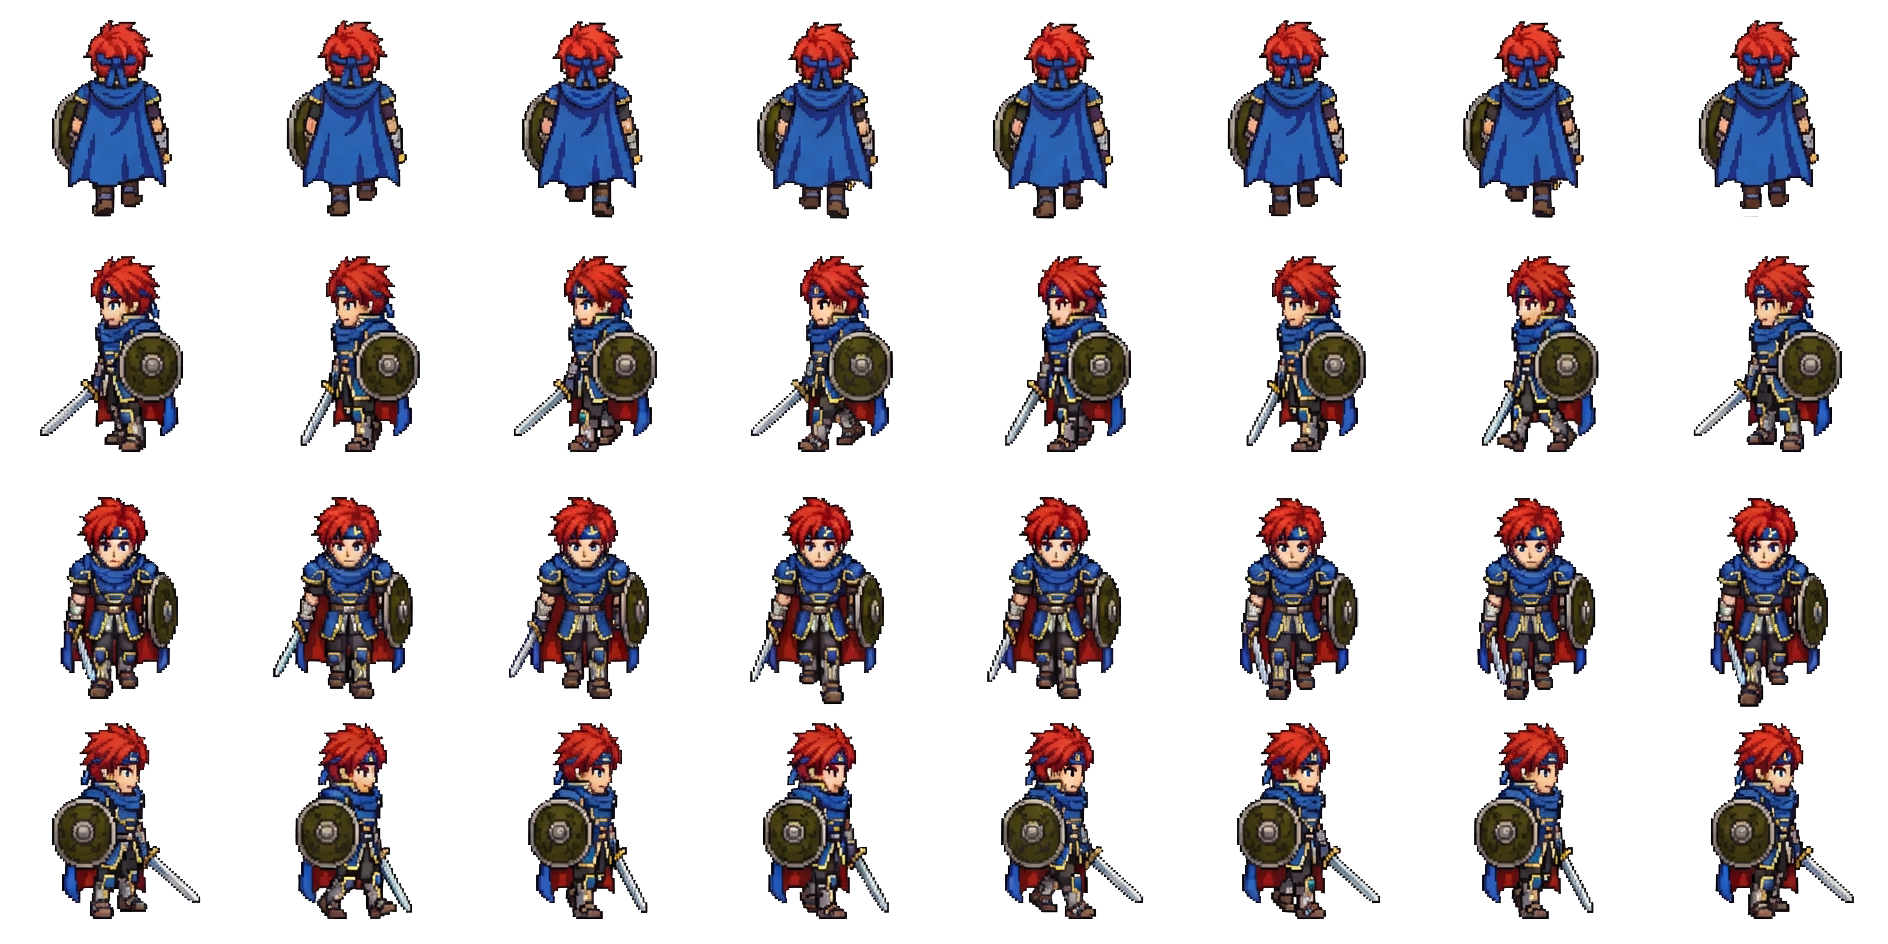
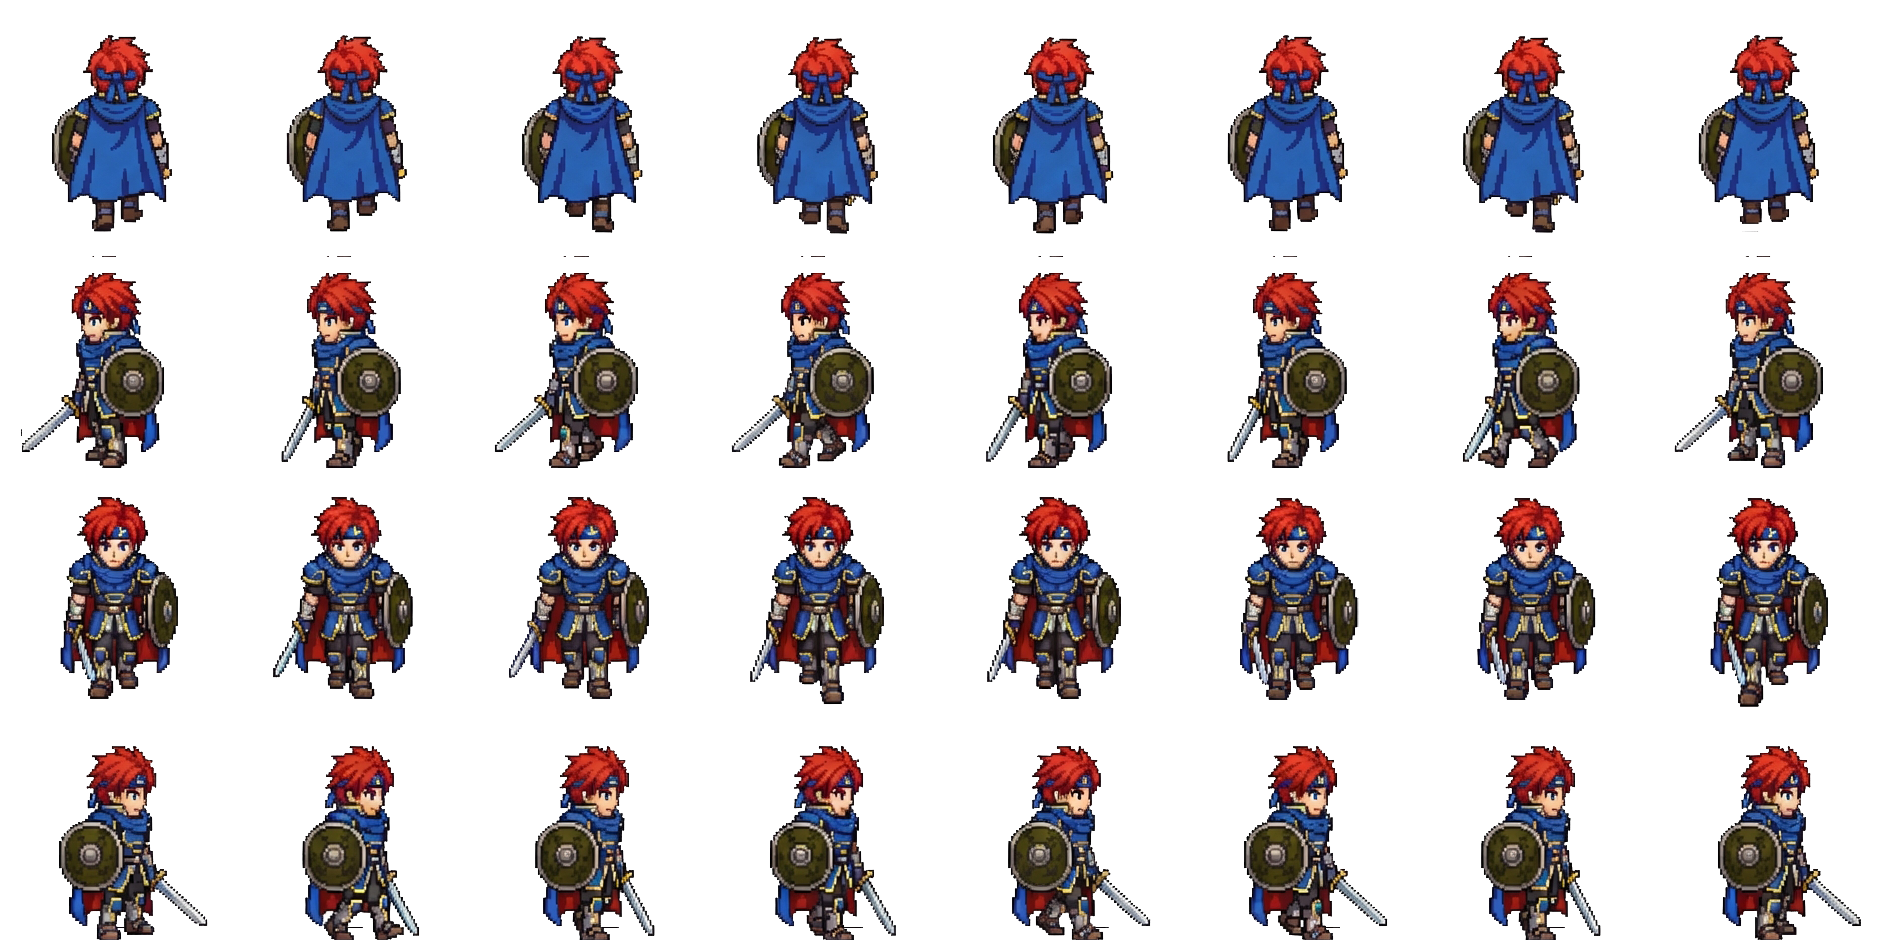
修改为1:2的人物比例，分离了站位面积与显示面积，2.5d化

diff --git a/src/drama/lord-room.ts b/src/drama/lord-room.ts
@@ -1,0 +1,162 @@
+import * as InitiativeController from "@/core/system/InitiativeSystem";
+import { CharacterOutCombatController } from "@/core/controller/CharacterOutCombatController";
+import { golbalSetting } from "@/core/golbalSetting";
+import { Drama } from "./drama";
+import * as InitSystem from "@/core/system/InitiativeSystem";
+import { Item, ItemRarity, ItemType, HolyWater } from "@/core/item";
+import { UnitSystem } from "@/core/system/UnitSystem";
+import { CharacterController } from "@/core/controller/CharacterController";
+class LordRoom extends Drama {
+  mapName: string = "lord-room";
+  mapType: string = "png";
+  constructor() {
+    super("lord-room", "这是一个测试剧情");
+  }
+  loadInit() {
+    const { CGstart, unitSpeak, speak, unitChoose, CGEnd, addInteraction } =
+      this;
+    const cricleTalkUse = this.getVariable("cricleTalkUse");
+    if (cricleTalkUse) {
+      addInteraction("npc牧师", this.cricleTalk);
+    }
+  }
+  play(): void {
+    const startFlag = this.getVariable("startFlag");
+    if (!startFlag) {
+      this.setVariable("startFlag", true);
+      this.startEvent();
+    }
+  }
+  public battleEndHandle(): void {
+    const { CGstart, unitSpeak, speak, unitChoose, CGEnd } = this;
+  }
+  combat2EndCG = async () => {};
+  combat1EndCG = async () => {};
+
+  cricleTalk = async () => {
+    const { CGstart, unitSpeak, speak, unitChoose, CGEnd } = this;
+    if (InitSystem.isInBattle()) {
+      return;
+    }
+    CGstart();
+    const ch1 = await unitChoose(
+      "npc牧师",
+      [
+        { text: "你发现这种情况多久了？", value: "option1" },
+        { text: "它们有什么弱点吗？", value: "option2" },
+        { text: "这座神殿原本是哪个神明的？", value: "option3" },
+        { text: "你能提供什么帮助吗？", value: "option4" },
+      ],
+      "还有什么事吗"
+    );
+
+    if (ch1 == "option1")
+      await unitSpeak(
+        "npc牧师",
+        "大约一周前，我开始注意到这些异常现象。起初只是有鬼魂在废弃神殿中呢喃，但现在已经变得越来越严重了。"
+      );
+    if (ch1 == "option2") {
+      await unitSpeak(
+        "npc牧师",
+        "它们畏惧阳光，所以一直在神殿里没有出来。圣水对他们或许也有用……"
+      );
+
+      const hasHolyWater = this.getVariable("hasHolyWater");
+      if (!hasHolyWater) {
+        const item = new HolyWater();
+        const unit = CharacterController.selectedCharacter;
+
+        unit?.addItem(item);
+
+        await speak("你获得了道具：圣水");
+        this.setVariable("hasHolyWater", true);
+      }
+    }
+
+    if (ch1 == "option3")
+      await unitSpeak(
+        "npc牧师",
+        "这座神殿原本时祭拜古拉姆的……但是你也知道，古拉姆已经不在了，各种意义上，因此神殿也废弃了。"
+      );
+    if (ch1 == "option4")
+      await unitSpeak(
+        "npc牧师",
+        "我能做的并不多，但是我会尽我所能使用神术法术来攻击它们。但是别指望太多，我毕竟不是战斗人员。"
+      );
+    CGEnd();
+  };
+
+  private async startEvent(): Promise<void> {
+    const {
+      CGstart,
+      unitSpeak,
+      speak,
+      unitChoose,
+      CGEnd,
+      addInteraction,
+      unHiddenUnit,
+    } = this;
+    if (!this.map) {
+      return;
+    }
+    CGstart();
+
+    this.setVariable("inCombat1", true);
+    InitiativeController.setMap(this.map);
+    const units = UnitSystem.getInstance().getUnitBySelectionGroup("battle1");
+    const players = UnitSystem.getInstance().getUnitBySelectionGroup("player");
+    players.forEach((player) => {
+      units.push(player);
+    });
+    const initCombatPromise =
+      InitiativeController.addUnitsToInitiativeSheet(units);
+
+    // initCombatPromise.then(async () => {
+    //   await InitiativeController.startBattle();
+    //   InitiativeController.startCombatTurn();
+    // });
+
+    CGEnd();
+    CharacterOutCombatController.isUse = true;
+  }
+
+  private async door1Event(): Promise<void> {
+    const { CGstart, speak, unitSpeak, CGEnd } = this;
+
+    const door1 = golbalSetting.map?.doors?.find(
+      (door: { id: number }) => door.id === 86
+    );
+    if (!door1) return;
+    if (door1?.isOpen === false) {
+      return;
+    }
+
+    CGstart();
+    this.setVariable("door1", true);
+    await speak(
+      "你走近废弃的房屋,发现门口有一扇破旧的门。你试图推开门,但它似乎被什么东西卡住了。你决定用力推开它。"
+    );
+    await unitSpeak("skeleton", "骷髅:咯吱吱……咯吱吱");
+    CGEnd();
+    //开始战斗
+    if (!this.map) {
+      return;
+    }
+    this.setVariable("inCombat1", true);
+    InitiativeController.setMap(this.map);
+    const units = UnitSystem.getInstance().getUnitBySelectionGroup("battle1");
+    const players = UnitSystem.getInstance().getUnitBySelectionGroup("player");
+    players.forEach((player) => {
+      units.push(player);
+    });
+    const initCombatPromise =
+      InitiativeController.addUnitsToInitiativeSheet(units);
+
+    initCombatPromise.then(async () => {
+      await InitiativeController.startBattle();
+      InitiativeController.startCombatTurn();
+    });
+  }
+}
+
+export const lordRoom = new LordRoom();

diff --git a/src/core/anim/LookOnAnim.ts b/src/core/anim/LookOnAnim.ts
@@ -5,10 +5,35 @@ export const lookOn=(x:number,y:number)=>{
     const rootContainer = golbalSetting.rootContainer;
     const appSetting = envSetting.appSetting;
     const centerX=Math.floor((appSetting.width / 2 - x)/envSetting.tileSize)*envSetting.tileSize;
-    const centerY=Math.floor((appSetting.height / 2 - y)/envSetting.tileSize)*envSetting.tileSize;
-    if (rootContainer&&rootContainer._position) {
+    const centerY=Math.floor(((appSetting.height) / 2 - y)/envSetting.tileSize)*envSetting.tileSize;
+    
+    if (rootContainer&&rootContainer._position&&golbalSetting.map) {
+        // if (centerX < 0) {
+        //     rootContainer.x = centerX;
+        // }
+        console.log('golbalSetting.map?.width*envSetting.tileSize',centerX,golbalSetting.map?.width*envSetting.tileSize-centerX);
+        if (golbalSetting.map?.width*envSetting.tileSize<appSetting.width) {
+            rootContainer.x =  (appSetting.width-golbalSetting.map?.width*envSetting.tileSize)/2;
+        }
+        else if (golbalSetting.map?.width*envSetting.tileSize-centerX<appSetting.width) {
+            rootContainer.x =  appSetting.width-golbalSetting.map?.width*envSetting.tileSize;
+        }else if (centerX >0 ) {
+            rootContainer.x = 0;
+        }else {
+            rootContainer.x = centerX;
+        }
+              console.log('golbalSetting.map?.height*envSetting.tileSize',centerY,golbalSetting.map?.height*envSetting.tileSize-centerY,appSetting.height);
+        if (golbalSetting.map?.height*envSetting.tileSize<appSetting.height-envSetting.pannelHeight) {
+            rootContainer.y =  (appSetting.height-golbalSetting.map?.height*envSetting.tileSize)/2;
+        }
+        else if (golbalSetting.map?.height*envSetting.tileSize+centerY<appSetting.height) {
+            rootContainer.y =  appSetting.height-golbalSetting.map?.height*envSetting.tileSize;
+        }else if (centerY >0 ) {
+            rootContainer.y = 0;
+        }else {
+            rootContainer.y = centerY;
+        }
 
-        rootContainer.x =centerX<0? centerX : 0;
-        rootContainer.y = centerY<0? centerY : 0;
+       
     }
 }

diff --git a/src/core/anim/UnitAnimSprite.ts b/src/core/anim/UnitAnimSprite.ts
@@ -1,7 +1,7 @@
 import { Container } from "pixi.js";
 import * as PIXI from "pixi.js";
 import type { Unit } from "../units/Unit";
-import { tileSize, zIndexSetting } from "../envSetting";
+import { spriteTile, tileSize, zIndexSetting } from "../envSetting";
 import type { BuffInterface } from "../buff/BuffInterface";
 import { getStatusEffectsIconUrl } from "@/utils/utils";
 const lineIconLimit = 4;
@@ -59,6 +59,8 @@ export class UnitAnimSpirite extends Container {
     this.onRender = () => {
       this.update(this.callback);
     };
+    this.eventMode = "none";
+
   }
   public get ownerUnit(): Unit | undefined {
     return this.owner;
@@ -134,6 +136,8 @@ export class UnitAnimSpirite extends Container {
           0 -
           (this.anims[this._state].height - (this.visisualSize.height ?? 0)) /
             2;
+            this.anims[this._state].zIndex = this.y;
+          this.zIndex=this.y;
         if (this.owner?.direction != null) {
           this.direction = this.owner.direction;
           this.anims[this._state].textures =
@@ -204,7 +208,7 @@ export class UnitAnimSpirite extends Container {
     const animSprite = new PIXI.AnimatedSprite(
       spritesheet.animations[animKeys[0]]
     );
-    animSprite.scale = this.visisualSize.width / this.frameSize.width;
+    animSprite.scale = this.visisualSize.width / this.frameSize.width * spriteTile;
     console.log("动画精灵的视觉大小:", this.visisualSize);
     animSprite.animationSpeed = 0.1666;
     animSprite.textures = spritesheet.animations[animKeys[0]];
@@ -212,7 +216,7 @@ export class UnitAnimSpirite extends Container {
     // play the animation on a loop
     // animSprite.play();
     animSprite.label = name;
-    animSprite.anchor.set(0, 0); // 设置锚点为左上角，避免偏移
+    animSprite.anchor.set(0, 0.3); // 设置锚点为左上角，避免偏移
     this.addAnimation(name, animSprite);
   }
   public async addIcon(buff: BuffInterface) {

diff --git a/src/core/system/DramaSystem.ts b/src/core/system/DramaSystem.ts
@@ -10,6 +10,7 @@ import { MapCanvasService } from "../service/2dcanvas/MapCanvasService";
 import { FogSystem } from "./NewFogSystem";
 import { CharacterOutCombatController } from "../controller/CharacterOutCombatController";
 import { CharacterController } from "../controller/CharacterController";
+import { lordRoom } from "@/drama/lord-room";
 interface DialogOption {
   text: string;
   value: any;
@@ -307,4 +308,6 @@ const initDramaMap = () => {
   const dramaSystem = DramaSystem.getInstance();
   dramaSystem.registerDrama("d1", d1);
   dramaSystem.registerDrama("city_1", city_1);
+  dramaSystem.registerDrama("lord-room", lordRoom);
+
 };

diff --git a/src/core/service/2dcanvas/MapCanvasService.ts b/src/core/service/2dcanvas/MapCanvasService.ts
@@ -279,7 +279,7 @@ export class MapCanvasService {
       return;
     }
     rlayers.spriteLayer.attach(animSpriteUnit);
-    animSpriteUnit.eventMode = "static";
+    animSpriteUnit.eventMode = "none";
 
     animSpriteUnit.on("rightclick", (event: any) => {
       if (unit.creature) {
@@ -309,6 +309,7 @@ export class MapCanvasService {
     };
     rlayers.basicLayer = new PIXI.RenderLayer();
     rlayers.spriteLayer = new PIXI.RenderLayer();
+    rlayers.spriteLayer.sortableChildren=true;
     rlayers.lineLayer = new PIXI.RenderLayer();
     rlayers.fogLayer = new PIXI.RenderLayer();
     rlayers.selectLayer = new PIXI.RenderLayer();

diff --git a/src/core/stateMachine/WalkStateMachine.ts b/src/core/stateMachine/WalkStateMachine.ts
@@ -1,4 +1,4 @@
-import { tileSize } from "../envSetting";
+import { tileSize, walkSpped } from "../envSetting";
 import { BattleEvenetSystem } from "../system/BattleEventSystem";
 import { OpportunitySystem } from "../system/OpportunitySystem";
 import { UnitSystem } from "../system/UnitSystem";
@@ -162,7 +162,7 @@ export class WalkStateMachine extends StateMachine {
 
       // 计算移动步长
       const distance = Math.sqrt(dx * dx + dy * dy);
-      const step = 7.68;
+      const step = walkSpped;
       const stepX =
         distance === 0 ? 0 : (dx / distance) * Math.min(step, Math.abs(dx));
       const stepY =

diff --git a/src/components/GamePannel/GamePannel.vue b/src/components/GamePannel/GamePannel.vue
@@ -110,7 +110,7 @@ onMounted(async () => {
   } else {
     // 设置并启动剧情（会自动加载地图）
     console.log("[changemap0] setDramaUse 前 golbalSetting.map:", golbalSetting.map);
-    await DramaSystem.getInstance().setDramaUse("d1");
+    await DramaSystem.getInstance().setDramaUse("lord-room");
     console.log("[changemap0] setDramaUse 后 golbalSetting.map:", golbalSetting.map, "sprites:", golbalSetting.map?.sprites?.length);
     await MapCanvasService.getInstance().initByMap(golbalSetting.map);
     await new Promise((resolve) => setTimeout(resolve, 1000));

diff --git a/src/core/envSetting.ts b/src/core/envSetting.ts
@@ -4,8 +4,10 @@ export const zIndexSetting={
     doorZindex: 30,
     tipZIndex: 200
 }
-export const tileSize = 128; // 格子大小
-
+export const tileSize = 64; // 格子大小
+export const spriteTile=2.2;
+export const walkSpped=20;
+export const pannelHeight=150;
 export const appSetting = {
     width: 1600,
     height: 900,

diff --git a/src/core/system/UnitMoveSystem.ts b/src/core/system/UnitMoveSystem.ts
@@ -20,7 +20,7 @@ export const checkPassiable = (
     return false;
   }
   const mapWidth = mapPassiable.width * tileSize
-  const mapHeight = mapPassiable.height * mapPassiable.tileheight;
+  const mapHeight = mapPassiable.height * tileSize;
   if (x < 0 || y < 0 || x >= mapWidth || y >= mapHeight) {
     return false;
   }
